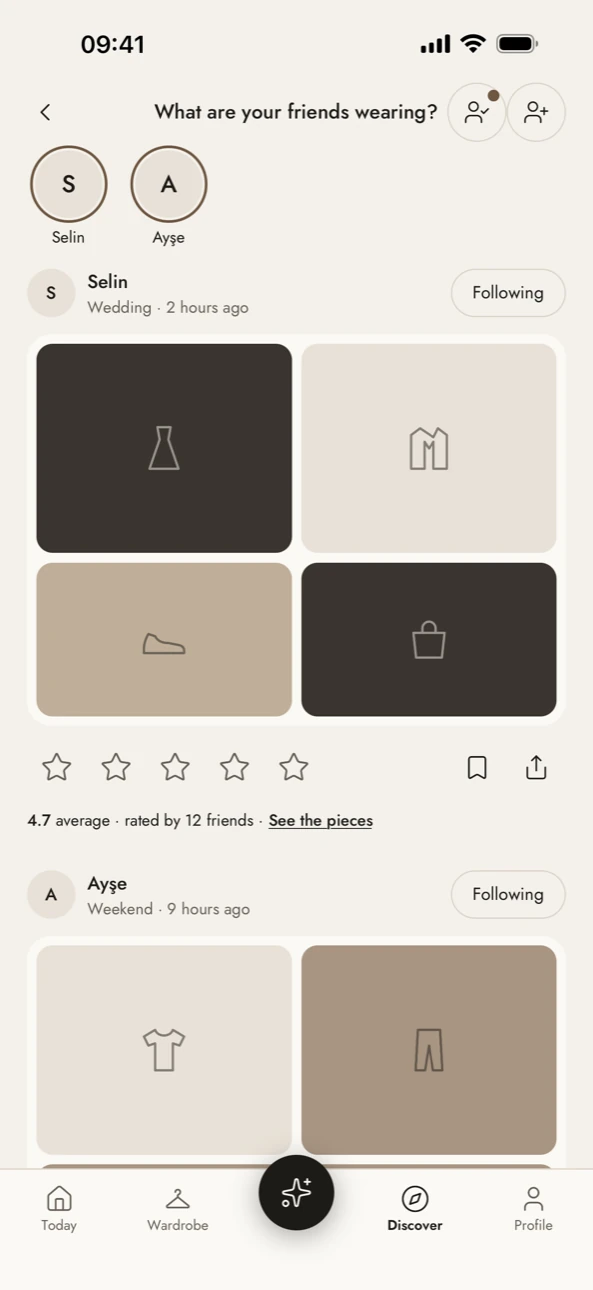
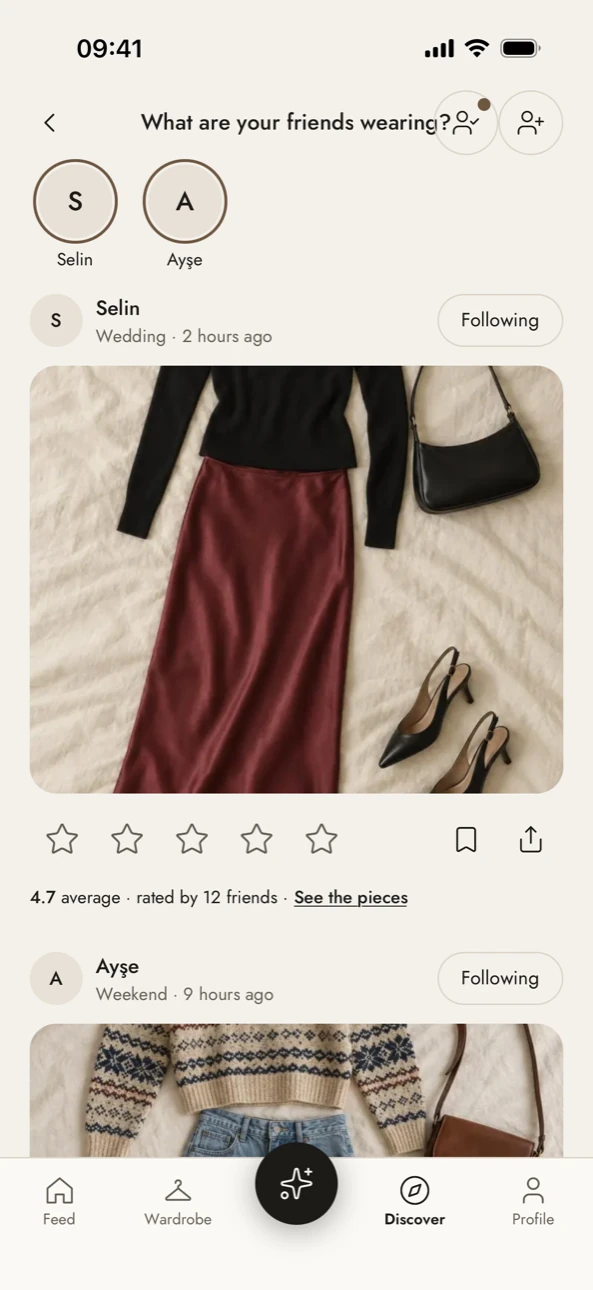
feat(landing): app screenshots are back, taken from the showcase build with real pictures
Hero shows Akış; steps, features, membership and the gallery use the screens
that show pictures (feed, today, looks, suggestion, friends, shop, product,
palette, membership, welcome). Wardrobe, stylist, trip and profile are left out.

Claude-Session: https://claude.ai/code/session_018jPFkeYgtf4Jz6TusSoJJ2

diff --git a/landing/src/components/HomePage.tsx b/landing/src/components/HomePage.tsx
@@ -14,10 +14,10 @@ import { StoreButtons } from './StoreButtons';
 const privacyIcons = ['lock', 'trash', 'visibility'] as const;
 
 /** Screenshot of each step of the loop (Dijitalleştir · Kombinle · Tamamla), in dictionary order. */
-const stepScreens: readonly ScreenName[] = ['wardrobe', 'looks', 'product'];
+const stepScreens: readonly ScreenName[] = ['looks', 'suggestion', 'product'];
 
 /** Screenshot of each feature, in dictionary order. */
-const featureScreens: readonly ScreenName[] = ['stylist', 'suggestion', 'trip', 'palette', 'shop', 'friends'];
+const featureScreens: readonly ScreenName[] = ['suggestion', 'today', 'looks', 'palette', 'shop', 'friends'];
 
 /** Photographs (fictional, AI-made people) in `public/photos/`, with their pixel size. */
 const photos = {
@@ -54,17 +54,15 @@ const toneClasses = [
 /** Order of the screens gallery before the closing call to action. */
 const galleryScreens: readonly ScreenName[] = [
   'welcome',
+  'feed',
   'today',
-  'wardrobe',
   'looks',
-  'stylist',
   'suggestion',
-  'trip',
-  'palette',
+  'friends',
   'shop',
   'product',
-  'friends',
-  'profile',
+  'palette',
+  'membership',
 ];
 
 export function homeMetadata(locale: Locale): Metadata {
@@ -114,7 +112,7 @@ export function HomePage({ locale }: { locale: Locale }) {
               />
               {/* The app itself, over the photo's lower-left corner (curtain and floor, clear of the subject). */}
               <div className="absolute bottom-0 -left-2 w-[34%] sm:-left-8">
-                <PhoneFrame locale={locale} screen="today" alt={screens.today.alt} className="w-full" />
+                <PhoneFrame locale={locale} screen="feed" alt={screens.feed.alt} className="w-full" />
               </div>
             </div>
           </div>
@@ -259,7 +257,7 @@ export function HomePage({ locale }: { locale: Locale }) {
             </div>
           </div>
           <div className="stage h-[460px] flex-[1_1_340px] items-start bg-sand pt-10 sm:h-[560px] sm:pt-12" data-reveal>
-            <PhoneFrame locale={locale} screen="profile" alt={screens.profile.alt} className="w-[270px] sm:w-[290px]" />
+            <PhoneFrame locale={locale} screen="membership" alt={screens.membership.alt} className="w-[270px] sm:w-[290px]" />
           </div>
         </section>
 

diff --git a/landing/src/lib/screens.ts b/landing/src/lib/screens.ts
@@ -8,22 +8,20 @@ import type { Locale } from './i18n';
  */
 export const screenNames = [
   'welcome',
+  'feed',
   'today',
-  'wardrobe',
   'looks',
-  'stylist',
   'suggestion',
-  'trip',
   'palette',
   'shop',
   'product',
   'friends',
-  'profile',
+  'membership',
 ] as const;
 
 export type ScreenName = (typeof screenNames)[number];
 
-/** Pixel size of every exported screenshot (iPhone 17 Pro Max capture, scaled to 1290 px tall). */
+/** Pixel size of every exported screenshot (iPhone 17 capture, scaled to 1290 px tall). */
 export const screenSize = { width: 593, height: 1290 } as const;
 
 export function screenSrc(locale: Locale, name: ScreenName): string {

diff --git a/landing/scripts/capture/README.md b/landing/scripts/capture/README.md
@@ -13,7 +13,9 @@ shown in the store.
 | File | Screen (canvas board) | App link |
 |---|---|---|
 | `welcome` | 01 Hoş geldin | first screen after the splash |
-| `today` | 06 Bugün | tab after sign-in |
+| `feed` | 06″ Akış | first tab after sign-in |
+| `today` | 06 Bugün | `droplet://today` |
+| `membership` | 05 Üyelik | `droplet://paywall` (the showcase account is a member: no prices on it) |
 | `wardrobe` | 10 Gardırop › Parçalar | `droplet://wardrobe` |
 | `looks` | 14 Looklar | `droplet://wardrobe/looks` |
 | `stylist` | 16 Stilist | `droplet://stylist` |
@@ -25,7 +27,7 @@ shown in the store.
 | `friends` | 25 Arkadaş akışı | `droplet://friends/feed` |
 | `profile` | 28 Profil | `droplet://profile` |
 
-The list the page uses is `src/lib/screens.ts`; `npm run check` fails when a referenced file is missing in
+The capture takes more screens than the page shows: since 23 Nov 2026 the page uses only the ones with real pictures (`src/lib/screens.ts`; the showcase pictures are `mobile/assets/showcase/`, see `mobile/src/fixtures/showcaseImages.ts`) — wardrobe, stylist, trip and profile are captured but not copied into the page's set. `npm run check` fails when a referenced file is missing in
 either language, when the two sets differ, when a language's set is over 2.5 MB or the hero image over 400 KB.
 
 ## Men's showcase account (canvas 17)
